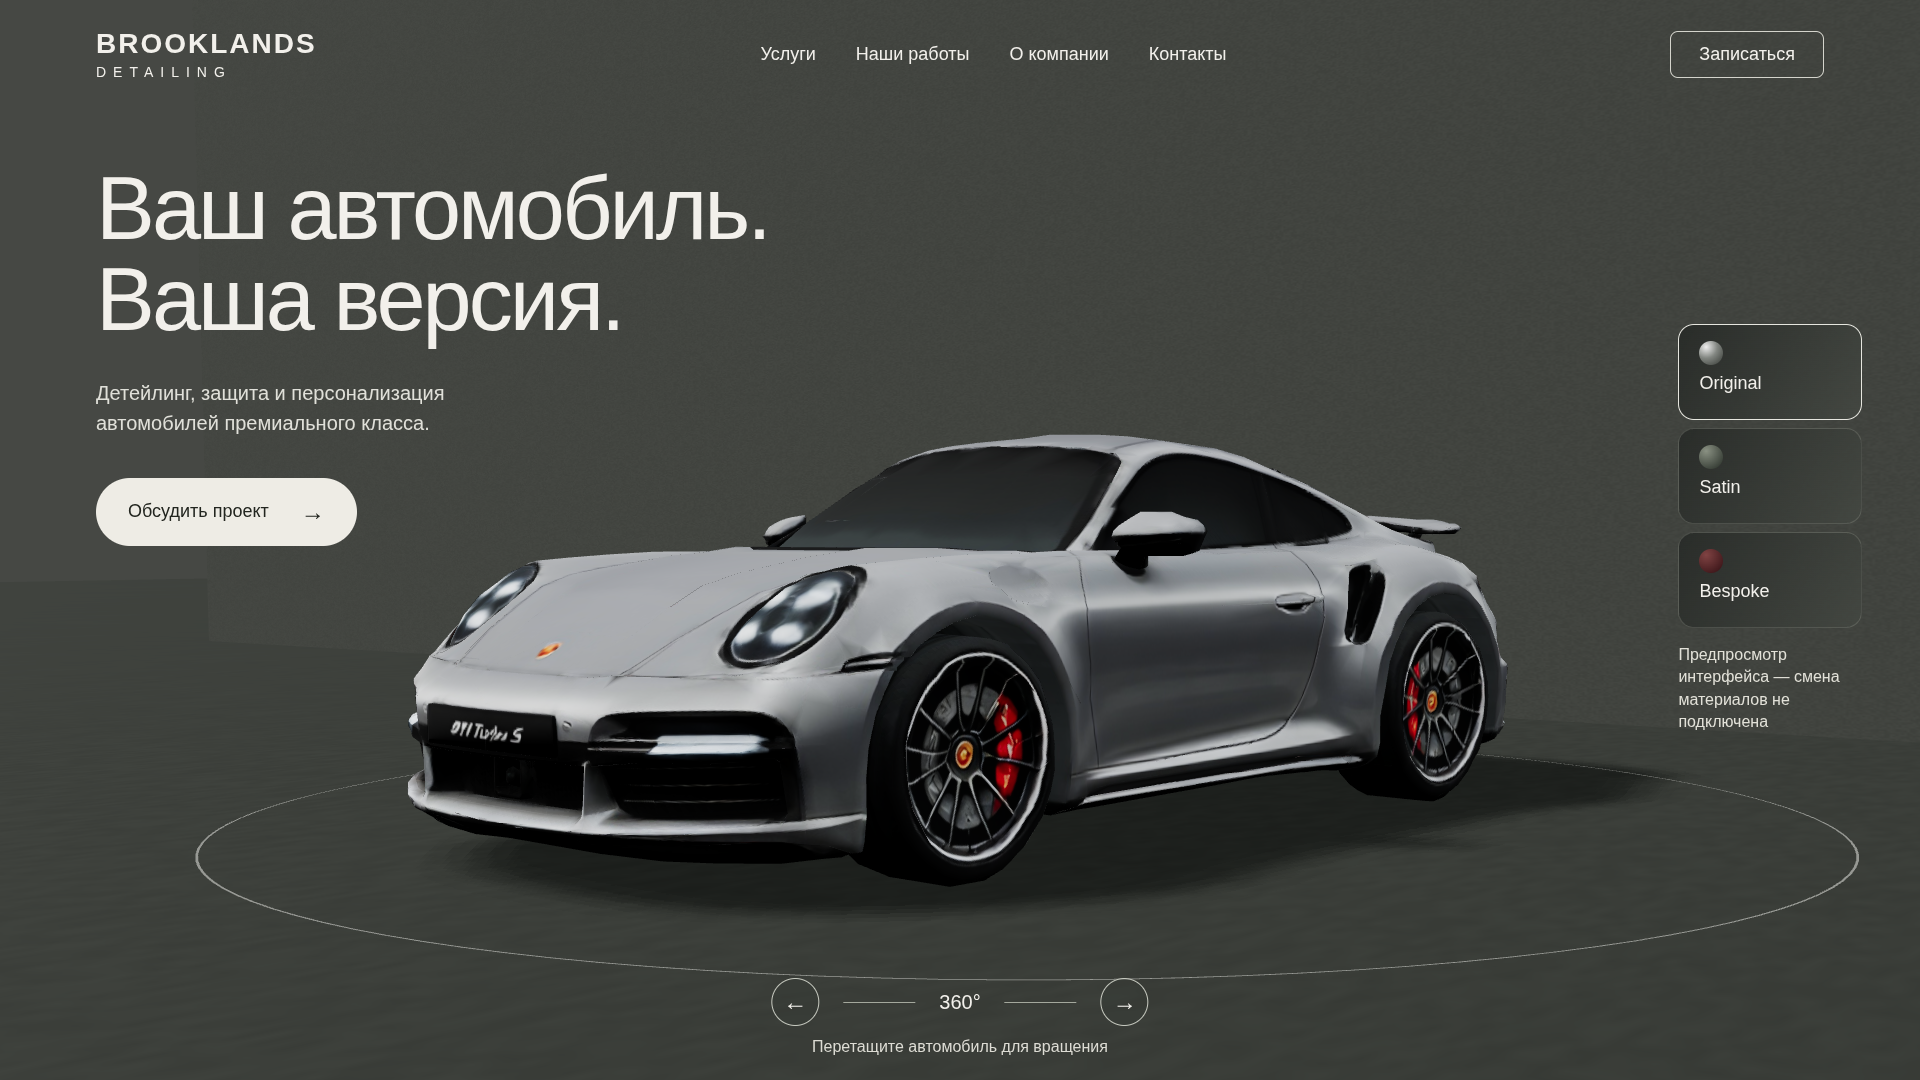
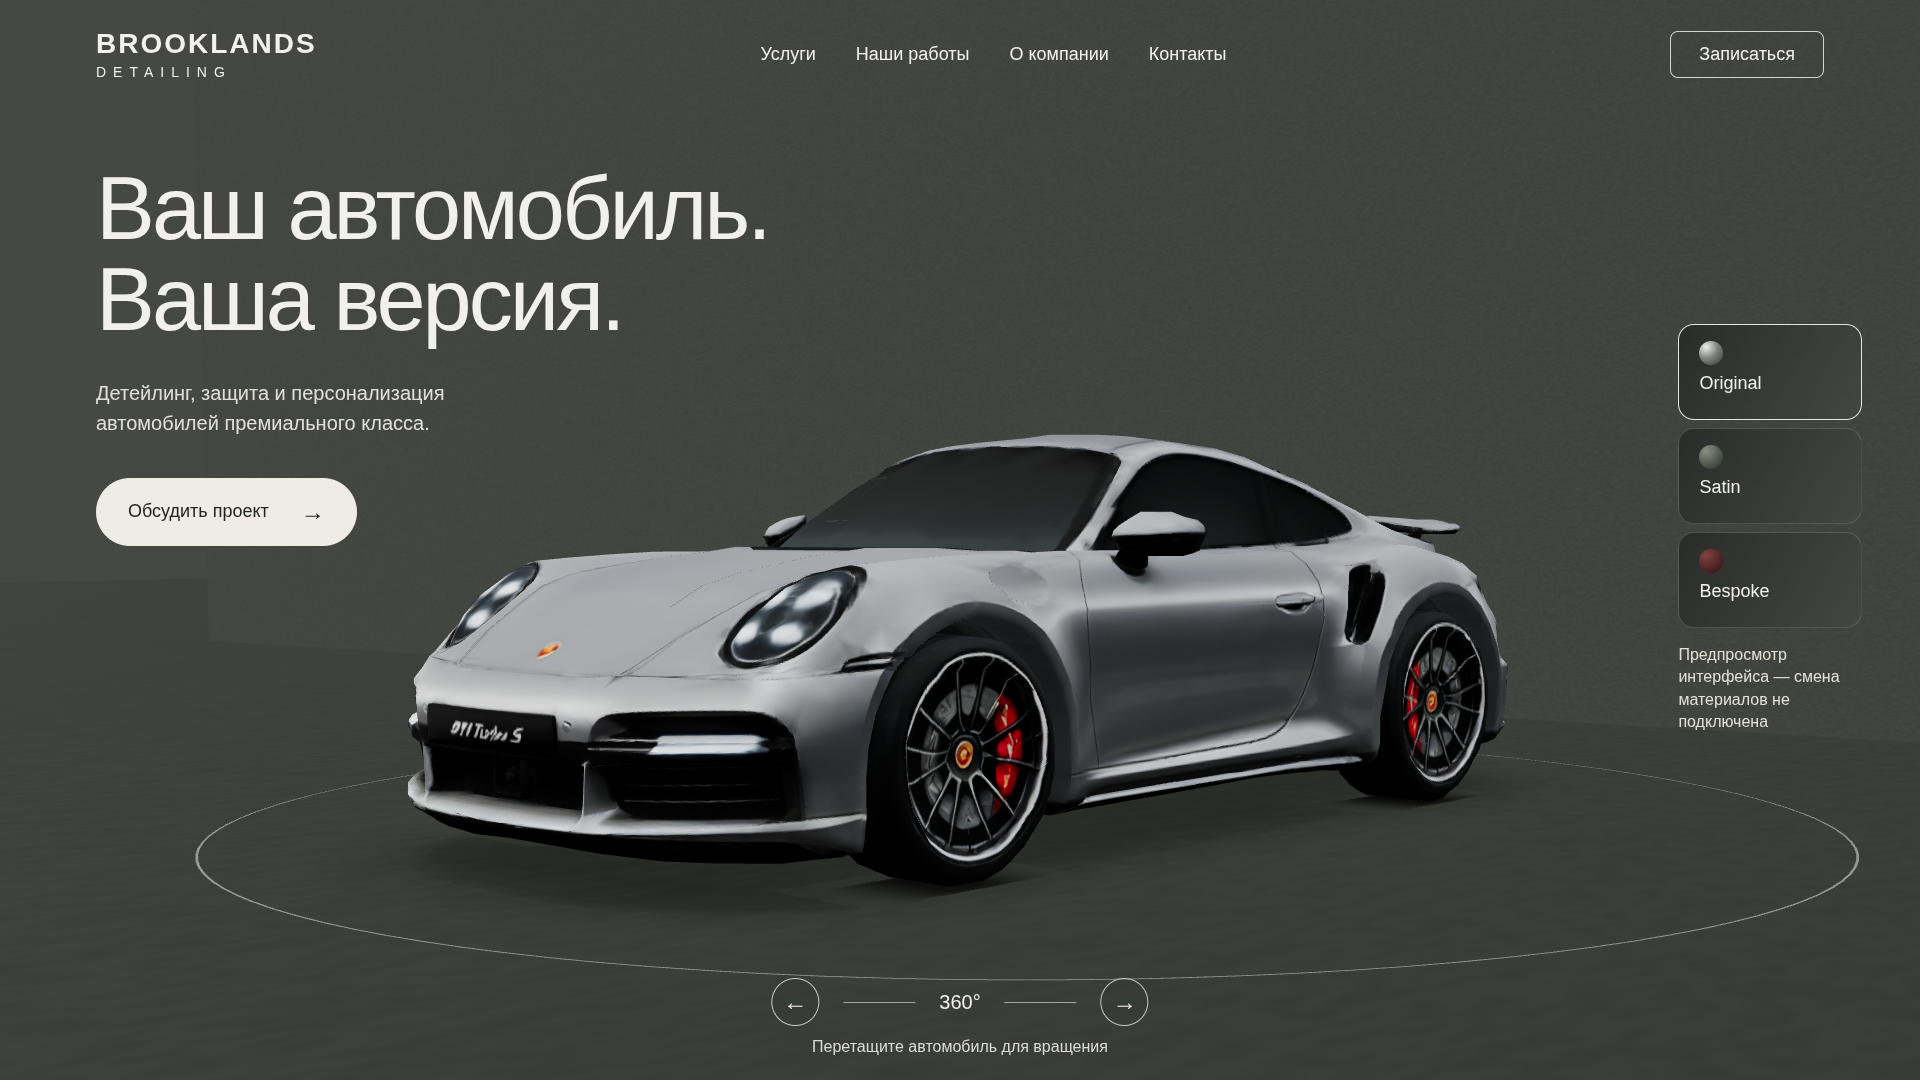
Replace floor silhouette with height-weighted contact shadow

Changed region(s): [[0.5, 0.7028, 0.8438, 0.8556]]

diff --git a/src/main.jsx b/src/main.jsx
@@ -4,12 +4,12 @@ import { Canvas, useFrame, useLoader, useThree } from '@react-three/fiber';
 import * as THREE from 'three';
 import { GLTFLoader } from 'three/addons/loaders/GLTFLoader.js';
 import './style.css';
+import { ContactShadow } from './ContactShadow.jsx';
 
 const INITIAL_ROTATION = -1.65;
 const MODEL = `${import.meta.env.BASE_URL}assets/model.glb`;
-function Car({ angle, report }) {
+function Car({ angle, report, pivot }) {
   const gltf = useLoader(GLTFLoader, MODEL);
-  const pivot = useRef();
   const { camera, invalidate } = useThree();
   const prepared = useMemo(() => {
     const scene = gltf.scene.clone(true);
@@ -19,7 +19,7 @@ function Car({ angle, report }) {
     const scale = 5.7 / Math.max(size.x, size.z);
     scene.position.set(-center.x * scale, -box.min.y * scale, -center.z * scale);
     scene.scale.multiplyScalar(scale);
-    scene.traverse(o => { if (o.isMesh) { o.castShadow = true; o.receiveShadow = true; } });
+    scene.traverse(o => { if (o.isMesh) { o.castShadow = true; o.receiveShadow = true; o.layers.enable(1); } });
     return scene;
   }, [gltf]);
   useEffect(() => { report('ready'); }, [report]);
@@ -41,7 +41,7 @@ function Car({ angle, report }) {
         el.dataset.camera=JSON.stringify({position:camera.position.toArray(),quaternion:camera.quaternion.toArray()});
       }
     }
-  });
+  }, -2);
   return <group ref={pivot} rotation={[0, INITIAL_ROTATION, 0]}><primitive object={prepared}/></group>;
 }
 function Room() {
@@ -59,7 +59,7 @@ function Room() {
     <hemisphereLight args={['#e9f0f4', '#5d5b53', 1.2]}/>
     <directionalLight position={[-5,8,5]} intensity={2.4} castShadow shadow-mapSize={[1024,1024]} shadow-camera-left={-9} shadow-camera-right={9} shadow-camera-top={8} shadow-camera-bottom={-8} shadow-bias={-0.0004} shadow-radius={8}/>
     <directionalLight position={[5,4,-3]} intensity={1.2} color="#e4eaf0"/>
-    <mesh rotation={[-Math.PI/2,0,0]} position={[0,-0.005,0]} receiveShadow><planeGeometry args={[100,100]}/><meshStandardMaterial color="#666963" map={concrete} roughness={0.68}/></mesh>
+    <mesh rotation={[-Math.PI/2,0,0]} position={[0,-0.005,0]}><planeGeometry args={[100,100]}/><meshStandardMaterial color="#666963" map={concrete} roughness={0.68}/></mesh>
     <mesh position={[0,4,-6]} receiveShadow><boxGeometry args={[34,9,.4]}/><meshStandardMaterial color="#989b96" map={concrete} roughness={1}/></mesh>
     <mesh position={[8,4,-1]}><boxGeometry args={[.5,9,11]}/><meshStandardMaterial color="#565954" roughness={1}/></mesh>
     <mesh position={[0,8,-1]} rotation={[0,0,-.12]}><boxGeometry args={[30,.3,9]}/><meshStandardMaterial color="#555852" roughness={1}/></mesh>
@@ -110,6 +110,7 @@ function RendererLifecycle({ report }) {
 function App(){
   const angle=useRef(INITIAL_ROTATION);
   const gesture=useRef(null);
+  const carRoot=useRef(null);
   const wake=useRef(()=>{});
   const [status,setStatus]=useState(()=>hasWebGL()?'loading':'unavailable');
   const [message,setMessage]=useState('');
@@ -122,7 +123,7 @@ function App(){
     <header><a href="#hero" className="brand" aria-label="Brooklands Detailing"><strong>BROOKLANDS</strong><span>DETAILING</span></a><nav aria-label="Основная навигация">{['Услуги','Наши работы','О компании','Контакты'].map(t=><button key={t} onClick={demo}>{t}</button>)}</nav><button className="booking" onClick={demo}>Записаться</button></header>
     <section className="intro" id="hero"><h1>Ваш автомобиль.<br/>Ваша версия.</h1><p>Детейлинг, защита и персонализация<br className="desktop-break"/> автомобилей премиального класса.</p><button className="cta" onClick={demo}>Обсудить проект <span aria-hidden="true">→</span></button></section>
     <section className="stage" aria-label="Интерактивная 3D-модель Porsche" data-status={status} onPointerDown={down} onPointerMove={move} onPointerUp={end} onPointerCancel={end} onLostPointerCapture={end}>
-      {status!=='unavailable' && <SceneBoundary fail={()=>setStatus('unavailable')}><Canvas frameloop="demand" shadows dpr={[1,1.5]} gl={{antialias:true,powerPreference:'high-performance'}} onCreated={({gl,invalidate})=>{wake.current=invalidate;gl.shadowMap.type=THREE.PCFShadowMap;gl.toneMapping=THREE.ACESFilmicToneMapping;gl.toneMappingExposure=1;}} fallback={<p>WebGL недоступен. Интерактивная модель не отображается.</p>}><RendererLifecycle report={setStatus}/><Camera/><Room/><Suspense fallback={null}><Car angle={angle} report={setStatus}/></Suspense></Canvas></SceneBoundary>}
+      {status!=='unavailable' && <SceneBoundary fail={()=>setStatus('unavailable')}><Canvas frameloop="demand" shadows dpr={[1,1.5]} gl={{antialias:true,powerPreference:'high-performance'}} onCreated={({gl,invalidate})=>{wake.current=invalidate;gl.shadowMap.type=THREE.PCFShadowMap;gl.toneMapping=THREE.ACESFilmicToneMapping;gl.toneMappingExposure=1;}} fallback={<p>WebGL недоступен. Интерактивная модель не отображается.</p>}><RendererLifecycle report={setStatus}/><Camera/><Room/><ContactShadow carRoot={carRoot}/><Suspense fallback={null}><Car pivot={carRoot} angle={angle} report={setStatus}/></Suspense></Canvas></SceneBoundary>}
       {status==='loading'&&<p className="status" role="status">Загрузка 3D-модели…</p>}
       {status==='unavailable'&&<div className="fallback" role="status"><span>PORSCHE / 3D</span><p>Интерактивная модель недоступна.<br/>Нужен браузер с поддержкой WebGL 2 и доступ к файлу модели.</p></div>}
     </section>

diff --git a/src/ContactShadow.jsx b/src/ContactShadow.jsx
@@ -1,0 +1,104 @@
+import React, { useEffect, useMemo, useRef } from 'react';
+import { useFrame, useThree } from '@react-three/fiber';
+import * as THREE from 'three';
+import { HorizontalBlurShader } from 'three/addons/shaders/HorizontalBlurShader.js';
+import { VerticalBlurShader } from 'three/addons/shaders/VerticalBlurShader.js';
+
+// A local, height-weighted contact projection. Only the car is on layer 1.
+// It updates after car movement, never runs its own animation loop.
+export function ContactShadow({ carRoot }) {
+  const { gl, scene } = useThree();
+  const previous = useRef({ root: null, angle: null });
+  const resources = useMemo(() => {
+    const resolution = 512;
+    const target = () => new THREE.WebGLRenderTarget(resolution, resolution, { depthBuffer: false });
+    const depth = target();
+    depth.depthBuffer = true;
+    const temporary = target();
+    const blurred = target();
+    const camera = new THREE.OrthographicCamera(-4, 4, 4, -4, .001, 2.2);
+    camera.position.set(0, -.004, 0);
+    camera.up.set(0, 0, 1);
+    camera.lookAt(0, 1, 0);
+    camera.layers.set(1);
+    const depthMaterial = new THREE.MeshDepthMaterial({
+      depthPacking: THREE.BasicDepthPacking, side: THREE.DoubleSide, blending: THREE.NoBlending,
+    });
+    depthMaterial.onBeforeCompile = shader => {
+      shader.fragmentShader = shader.fragmentShader.replace(
+        'gl_FragColor = vec4( vec3( 1.0 - fragCoordZ ), opacity );',
+        'gl_FragColor = vec4( vec3( 0.0 ), pow( clamp( 1.0 - fragCoordZ, 0.0, 1.0 ), 3.0 ) );',
+      );
+    };
+    const horizontal = new THREE.ShaderMaterial({
+      ...HorizontalBlurShader, uniforms: THREE.UniformsUtils.clone(HorizontalBlurShader.uniforms),
+      depthTest: false, depthWrite: false, blending: THREE.NoBlending,
+    });
+    const vertical = new THREE.ShaderMaterial({
+      ...VerticalBlurShader, uniforms: THREE.UniformsUtils.clone(VerticalBlurShader.uniforms),
+      depthTest: false, depthWrite: false, blending: THREE.NoBlending,
+    });
+    horizontal.uniforms.h.value = 6 / resolution;
+    vertical.uniforms.v.value = 6 / resolution;
+    const blurScene = new THREE.Scene();
+    const geometry = new THREE.PlaneGeometry(2, 2);
+    const quad = new THREE.Mesh(geometry, horizontal);
+    blurScene.add(quad);
+    const blurCamera = new THREE.OrthographicCamera(-1, 1, 1, -1, 0, 2);
+    blurCamera.position.z = 1;
+    const material = new THREE.ShaderMaterial({
+      transparent: true, depthWrite: false, side: THREE.DoubleSide,
+      uniforms: { contactMap: { value: depth.texture }, softMap: { value: blurred.texture } },
+      vertexShader: 'varying vec2 vUv; void main(){vUv=uv;gl_Position=projectionMatrix*modelViewMatrix*vec4(position,1.0);}',
+      fragmentShader: 'uniform sampler2D contactMap; uniform sampler2D softMap; varying vec2 vUv; void main(){float contact=texture2D(contactMap,vUv).a;float soft=texture2D(softMap,vUv).a;gl_FragColor=vec4(vec3(0.0),min(.88,pow(contact,8.0)*.7+soft*.3));}',
+    });
+    return { depth, temporary, blurred, camera, depthMaterial, horizontal, vertical, blurScene, quad, geometry, blurCamera, material };
+  }, []);
+  useEffect(() => () => {
+    for (const key of ['depth', 'temporary', 'blurred', 'depthMaterial', 'horizontal', 'vertical', 'geometry', 'material']) resources[key].dispose();
+  }, [resources]);
+  useFrame(() => {
+    const root = carRoot.current;
+    if (!root || (previous.current.root === root && previous.current.angle === root.rotation.y)) return;
+    const r = resources;
+    const saved = {
+      target: gl.getRenderTarget(), background: scene.background, override: scene.overrideMaterial,
+      color: gl.getClearColor(new THREE.Color()), alpha: gl.getClearAlpha(), shadowAuto: gl.shadowMap.autoUpdate,
+    };
+    try {
+      scene.background = null;
+      scene.overrideMaterial = r.depthMaterial;
+      gl.shadowMap.autoUpdate = false;
+      gl.setClearColor(0x000000, 0);
+      gl.setRenderTarget(r.depth);
+      gl.clear();
+      gl.render(scene, r.camera);
+      scene.overrideMaterial = saved.override;
+      r.quad.material = r.horizontal;
+      r.horizontal.uniforms.tDiffuse.value = r.depth.texture;
+      gl.setRenderTarget(r.temporary);
+      gl.clear();
+      gl.render(r.blurScene, r.blurCamera);
+      r.quad.material = r.vertical;
+      r.vertical.uniforms.tDiffuse.value = r.temporary.texture;
+      gl.setRenderTarget(r.blurred);
+      gl.clear();
+      gl.render(r.blurScene, r.blurCamera);
+      previous.current = { root, angle: root.rotation.y };
+      if (import.meta.env.DEV) {
+        const stage = document.querySelector('.stage');
+        if (stage) stage.dataset.shadowUpdates = String(Number(stage.dataset.shadowUpdates || 0) + 1);
+      }
+    } finally {
+      scene.background = saved.background;
+      scene.overrideMaterial = saved.override;
+      gl.shadowMap.autoUpdate = saved.shadowAuto;
+      gl.setClearColor(saved.color, saved.alpha);
+      gl.setRenderTarget(saved.target);
+    }
+  }, -1);
+  // This orientation maps the below-floor camera's +Z image up-axis onto world Z.
+  return <mesh rotation={[Math.PI / 2, 0, 0]} position={[0, -.004, 0]} material={resources.material}>
+    <planeGeometry args={[8, 8]} />
+  </mesh>;
+}

diff --git a/artifacts/shadow-01/README.md b/artifacts/shadow-01/README.md
@@ -1,0 +1,24 @@
+# DIS / HERO — контактная тень, проход 01
+
+Текущая GLB — временная. Качество автомобиля не принято; до его замены клиентский показ не считается готовым.
+
+## Изменение
+
+Новый `src/ContactShadow.jsx` строит контактную тень от геометрии GLB. Камера проекции под полом выбирает ближайшие к земле поверхности; тень затухает по высоте. Плотная составляющая удерживается у контактов, мягкая — под кузовом. На пол больше не проецируется прежний размытый силуэт от directional shadow map. Самозатенение автомобиля сохранено.
+
+Маска 512 × 512, два локальных Gaussian blur-прохода, без новых зависимостей и без полноэкранной постобработки. Карта пересчитывается после изменения фактического поворота машины и кэшируется в покое. GPU-ресурсы и обработчики освобождаются при размонтировании. Исходная модель, её материал, камера, освещение, архитектура и интерфейс не менялись.
+
+## Артефакты
+
+- `comparison.png` — до / новый вариант тени.
+- `before-1920x1080.png`, `after-1920x1080.png` — desktop.
+- `before-430x932.png`, `after-430x932.png`, `rotated-430x932.png` — mobile и поворот.
+- `qa-results.json` — существующие сценарии, повторены 430 и 1920 px; оба PASS, включая восемь углов, drag, клавиатуру, тач и fallback.
+- `qa-shadow.json` — пересчёт при вращении, кэширование в покое, отсутствие console/shader errors, потеря WebGL-контекста — PASS.
+- `qa-production-loading.json` — загрузка и управление в production под `/Brooklands-Hero/` — PASS.
+
+Остальные размеры в этом проходе повторно не запускались: layout/камера неизменны, предыдущая полная матрица сохранена в `artifacts/composition-01/qa-results.json`. Производительность на физических GPU и телефонах не проверена. Оптимизация кэширования не является подтверждением высокого FPS при вращении.
+
+Команды: `QA_WIDTHS=430,1920 QA_RESULTS_PATH=artifacts/shadow-01/qa-results.json node scripts/qa.mjs`, `node scripts/qa-shadow.mjs`, `node scripts/compare-shadow.mjs`, `npm run build`.
+
+Это промежуточный вариант для рабочей оценки сцены. После замены GLB контакт и мягкость тени нужно повторно проверить. Целевой визуал и клиентская готовность не утверждены.

diff --git a/README.md b/README.md
@@ -3,6 +3,8 @@
 Ограниченный технический прототип по `CODEX_PROMPT.md` и `QA_CRITERIA.md`.
 Это не финально утверждённый дизайн и не конфигуратор.
 
+Текущая GLB — временный ассет для рабочей оценки сцены. Её качество не принимается как целевое: модель будет заменена. До замены модели и визуального QA прототип не готов к клиентскому показу.
+
 ## Запуск
 
 Node.js 22.12+ (проверено на 24.22.1), npm:
